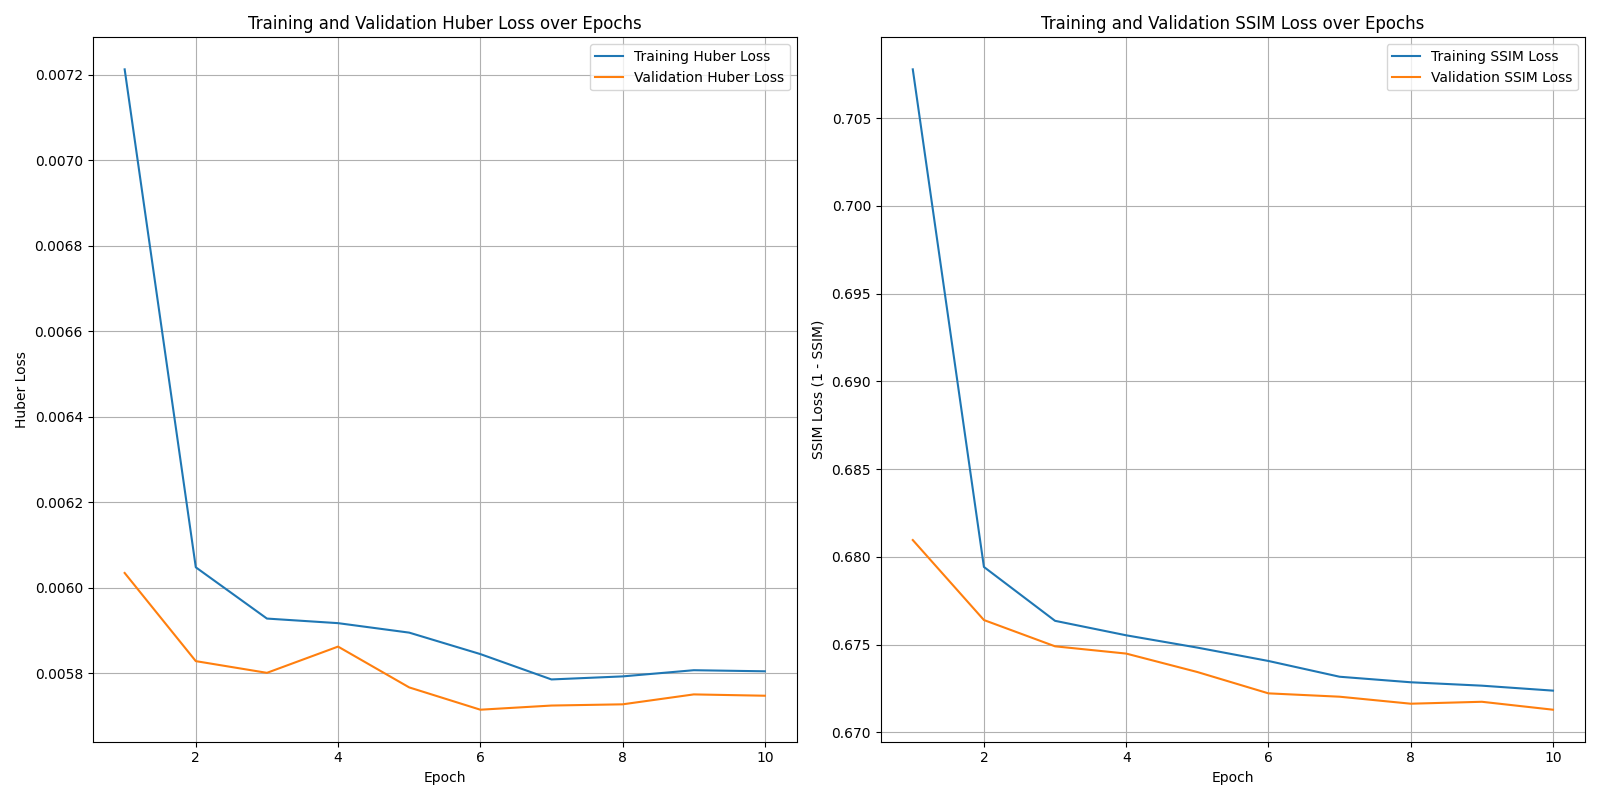
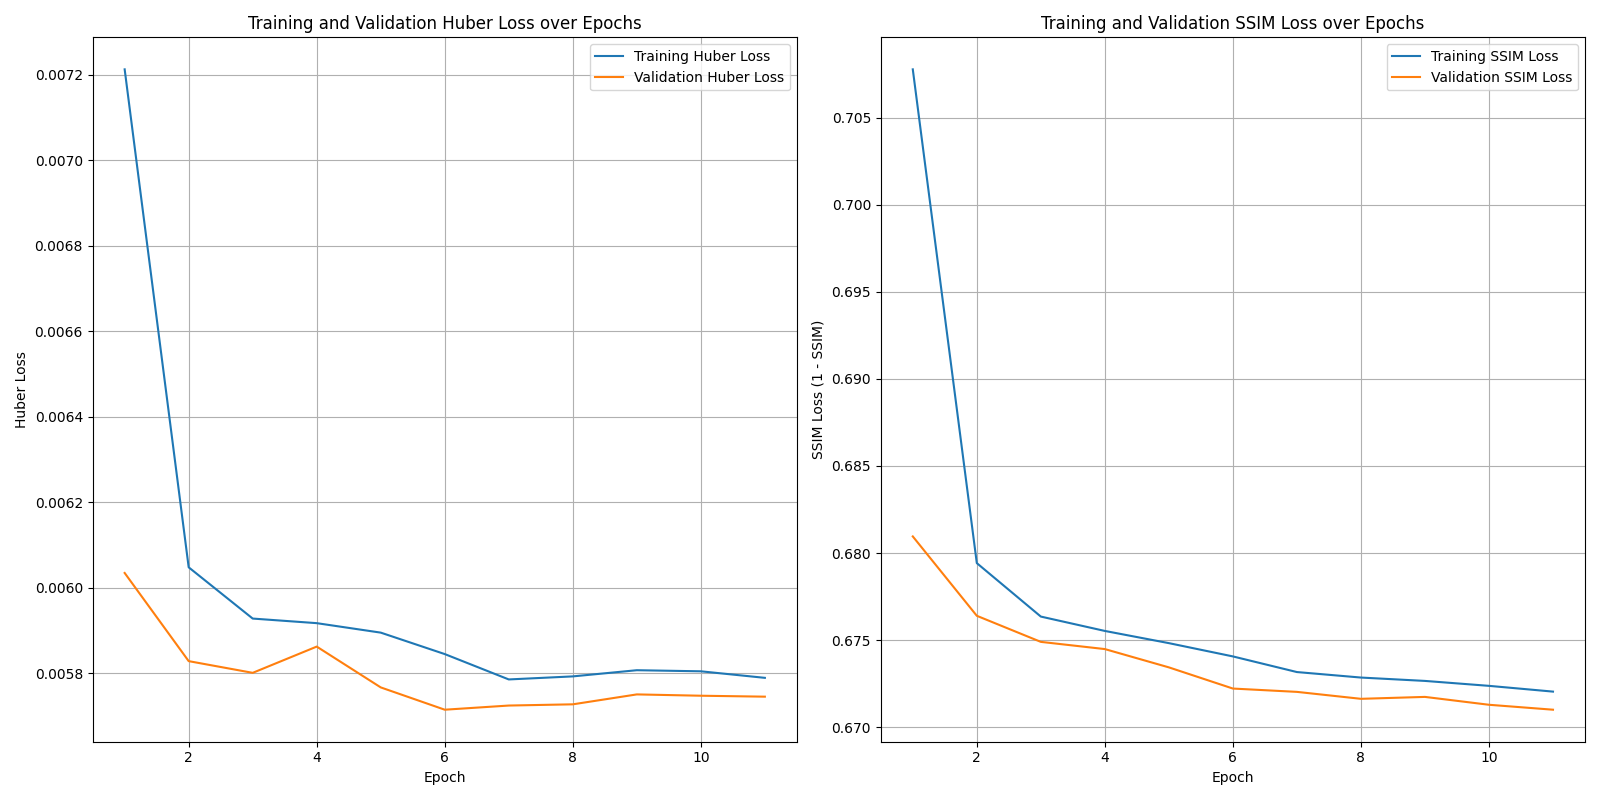
introding pizza in a box loss

diff --git a/model.py b/model.py
@@ -286,13 +286,51 @@ class MLP(nn.Module):
         return self.fc(x)
     
 
+# class PizzaSlicer(nn.Module):
+#     def __init__(self, input_dims, output_dims):
+#         super(PizzaSlicer, self).__init__()
+#         self.fc = nn.Sequential(
+#             nn.Linear(input_dims, (input_dims + output_dims) // 2),
+#             nn.ELU(True),
+#             nn.Linear((input_dims + output_dims) // 2, output_dims)
+#         )
+#         self.output_dims = output_dims
+
+#     def forward(self, x):
+#         x = self.fc(x)
+#         print("x shape: ", x.shape)
+#         print("x: ", x)
+#         x = torch.softmax(x, dim=-1) * self.output_dims
+#         print("x: ", x)
+
+#         return self.fc(x)
+
+
+class PizzaSlicer(nn.Module):
+    def __init__(self, input_dims, output_dims):
+        super(PizzaSlicer, self).__init__()
+        self.fc1 = nn.Linear(input_dims, (input_dims + output_dims) // 2)
+        self.fc2 = nn.Linear((input_dims + output_dims) // 2, output_dims)
+        self.output_dims = output_dims
+
+    def forward(self, x):
+        x = self.fc1(x)
+        x = F.elu(x)
+        x = self.fc2(x)
+        print("x shape: ", x.shape)
+        print("x: ", x)
+        x = torch.softmax(x, dim=-1) * self.output_dims
+        print("x softmaxed: ", x)
+        return x
+    
+
 class CrossView(nn.Module):
     def __init__(self, n_phi, n_encoded, hidden_dims, image_size, output_channels=3, pretrained=True, debug=False):
         super(CrossView, self).__init__()
 
         self.encoder_A = Encoder(latent_dim=n_encoded)
         self.encoder_G = Encoder(latent_dim=n_encoded)
-        self.combiner = MLP(input_dims=2*n_encoded, output_dims=n_phi)
+        self.pizza_slicer = PizzaSlicer(input_dims=2*n_encoded, output_dims=n_phi)
         self.mlp_A2G = MLP(input_dims=n_phi+n_encoded, output_dims=n_encoded)
         self.mlp_G2A = MLP(input_dims=n_phi+n_encoded, output_dims=n_encoded)
         self.decoder_A2G = Decoder(input_dims=n_encoded, hidden_dims=hidden_dims, output_channels=output_channels, initial_size=7)
@@ -323,7 +361,7 @@ class CrossView(nn.Module):
         encoded_G = self.encoder_G(images_G)
 
         # Concatenate and process through MLP
-        phi = self.combiner(torch.cat((encoded_A, encoded_G), dim=-1))
+        phi = self.pizza_slicer(torch.cat((encoded_A, encoded_G), dim=-1))
 
         # Concatenate the encoded attended images with phi
         encoded_A_phi = self.mlp_A2G(torch.cat((phi, encoded_A), dim=1))   # -> encoded_G

diff --git a/train.py b/train.py
@@ -39,7 +39,7 @@ def train(model, train_loader, val_loader, device, criterion_A, criterion_G, opt
     patience_counter = 0
     best_model_path = None
 
-    embedded_loss = True
+    embedded_loss = False
 
     for epoch in range(epochs):
         
@@ -61,6 +61,8 @@ def train(model, train_loader, val_loader, device, criterion_A, criterion_G, opt
                 else:
                     loss_A = criterion_A(reconstructed_A, images_A)
                     loss_G = criterion_G(reconstructed_G, images_G)
+
+                
                 huber_loss = loss_A + loss_G
                 running_huber_loss += huber_loss.item()
 
@@ -125,7 +127,7 @@ def validate(model, val_loader, criterion_A, criterion_G, epoch, epochs, results
     val_ssim_loss = 0
     first_batch = True
 
-    embedded_loss = True
+    embedded_loss = False
 
     with torch.no_grad():
         for images_A, images_G in val_loader:
@@ -177,7 +179,7 @@ if __name__ == '__main__':
     aerial_scaling = 3                      # scaling factor for aerial images
     hidden_dims = 512                       # hidden dimensions
     n_encoded = 1024                        # output size for the encoders
-    n_phi = 10                              # size of phi
+    n_phi = 16                              # size of phi
     batch_size = 64
     shuffle = True
 
@@ -196,16 +198,18 @@ if __name__ == '__main__':
     optimizer = optim.Adam(params=params, lr=learning_rate, weight_decay=weight_decay)
 
     # Loss Function
-    encoder_A = Encoder(latent_dim=n_encoded).to(device)
-    encoder_G = Encoder(latent_dim=n_encoded).to(device)
-    for param in encoder_A.parameters():
-        param.requires_grad = False
-    for param in encoder_G.parameters():
-        param.requires_grad = False
-    criterion_A = PerceptualLoss(encoder_A)
-    criterion_G = PerceptualLoss(encoder_G)
+    # encoder_A = Encoder(latent_dim=n_encoded).to(device)
+    # encoder_G = Encoder(latent_dim=n_encoded).to(device)
+    # for param in encoder_A.parameters():
+    #     param.requires_grad = False
+    # for param in encoder_G.parameters():
+    #     param.requires_grad = False
+    # criterion_A = PerceptualLoss(encoder_A)
+    # criterion_G = PerceptualLoss(encoder_G)
     # criterion_A = nn.HuberLoss()
     # criterion_G = nn.HuberLoss()
+    criterion_A = nn.HuberLoss(reduction='none')
+    criterion_G = nn.HuberLoss(reduction='none')
 
     # Transformations
     transform_cutouts = transforms.Compose([
